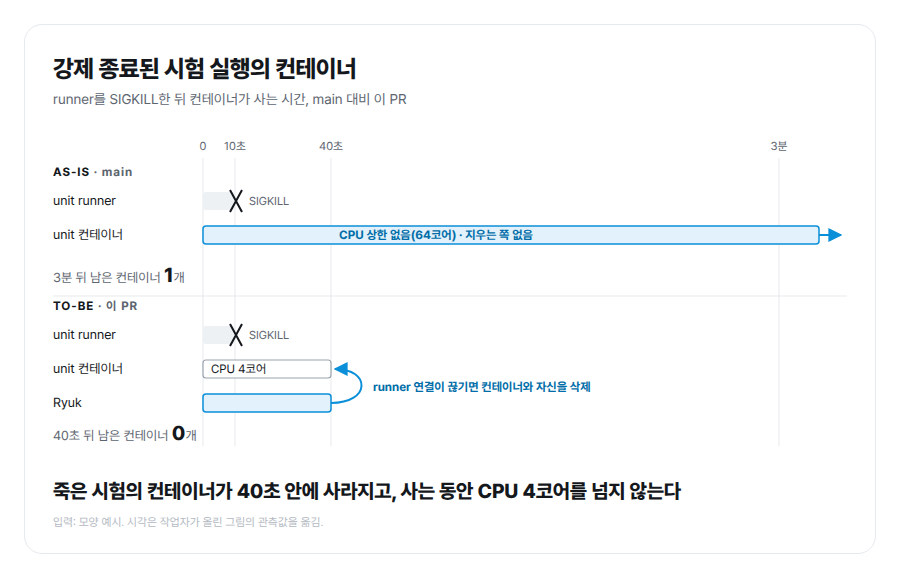
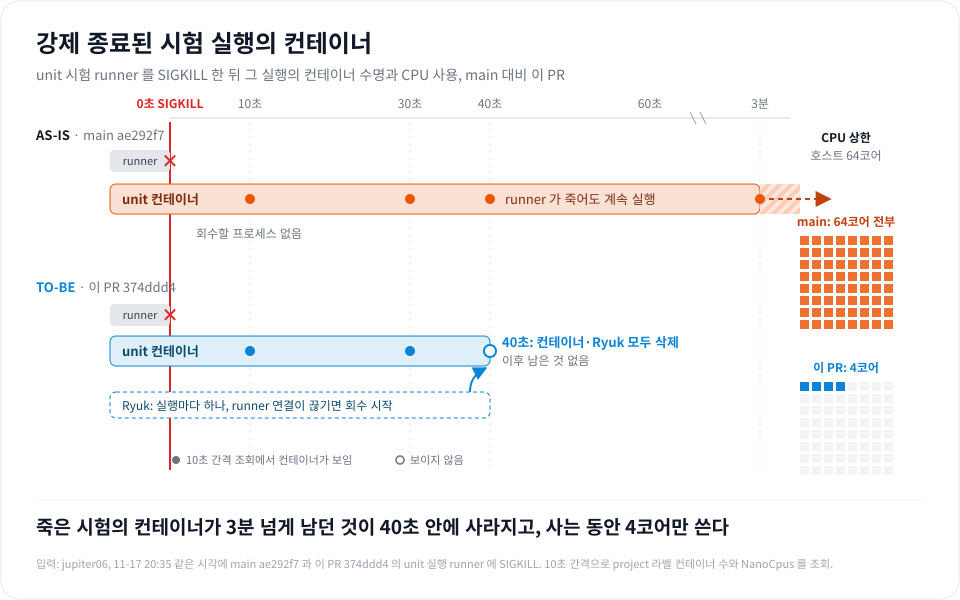
visuals: 컨테이너 정리 예시를 사용자가 더 낫다고 본 시간축·코어 격자 그림으로 바꾸고 자원 양을 그리는 방식을 더한다

diff --git a/skills/visuals/SKILL.md b/skills/visuals/SKILL.md
@@ -2,7 +2,7 @@
 name: visuals
 description: Apply the user's visual preferences to HTML, UI, data charts, diagrams, slides, and other visual materials; read it before making any data chart. Use ztd-charts for data charts and hand-positioned SVG for structural diagrams, with a light theme, readable fonts, and interaction where possible.
 metadata:
-  version: "1.5.0"
+  version: "1.6.0"
 ---
 
 # Visual materials
@@ -67,6 +67,7 @@ Choose the drawing by what the change acts on, and draw that thing:
 | Flow of data, such as which input becomes which output | The input pieces and the outputs as shapes joined by arrows; a dropped path ends in a cut mark where it stops |
 | Relations, such as a reference, a merge, or a split | Nodes and the edges between them, with the new or removed edge in the accent color |
 | Time, such as a lifetime, an order, a timeout, or a retry | One shared time axis with a lane per state and bars for what lives when, the event that ends each bar drawn as an arrow from its cause |
+| An amount of a resource, such as CPU cores, memory, or calls | The amount as a grid of unit cells or a bar to scale per state, filled to what each state uses |
 | Text, such as a document, a rule, or a prompt | The real passage before and after, with the changed spans marked on the text and joined to what they cause |
 
 Each state comes from the same real input, read from an actual run of the base commit and of the PR head, or the actual text of the file before and after. What the change touches is in the accent color, what the change removes stays in place in gray with its path cut, so the two states line up, and unchanged parts stay neutral gray. Each state ends with one line of numbers that measures the difference, such as the count of extracted items. Pick the input that shows the difference most plainly and cut it to the part where the difference lies.
@@ -75,7 +76,7 @@ A performance change uses a `ztd-charts` chart of the measured or proved numbers
 
 Both forms share one card style, the `ztd-charts` light theme card: a title, a one-line subtitle naming what is compared, the body, a bold one-line takeaway at the bottom, one accent color for what changed and neutral gray for the rest, and a small source line naming the input or the measurement. The user's words (2026-11-17), asking for this while the examples were made: "디자인 스타일을 좀 통일해주면 좋겠어", and, told that the card puts a title inside the figure against the rule above: "좋아. 일단 이렇게 하자". So the rule against titles and explanatory sentences inside a figure does not apply to the change visual. For the as-is/to-be drawing, write HTML on `examples/card.css`, which holds the theme tokens, the card frame, and the SVG classes, with the drawing as an inline `<svg class="fig">` between the subtitle and the takeaway, with a `fonts/` directory beside it holding the Pretendard files copied from `~/.local/share/ztd-charts-runtime/node_modules/ztd-charts-cli/fonts`, and render it to PNG with `~/.agents/skills/browser-render/SKILL.md` using `--viewport 900x100 --fullpage`, which keeps the page 900px wide, about the width GitHub shows a body at, and grows its height to the content. Inspect the PNG before posting: Korean text renders in Pretendard, nothing overlaps or is clipped, the difference is visible without zooming, and a reader who skips every label still sees what changed from the shapes and arrows.
 
-The examples in `examples/` are drawn on placeholder data for shape only; a real PR uses real data. `pr1415` (flow: lines without facts cut before they become nodes), `pr1437` (relation: a `refers_to` edge merges two nodes), and `container-cleanup` (time: a container's lifetime after its runner is killed, ended by Ryuk) are as-is/to-be drawings, each as its HTML source and PNG. `pr1460-chart` (keyword search: p50 speedup per path) and `pr1423-chart` (thread count, main against this PR per case) are performance charts, each as its `ztd-charts` spec and PNG.
+The examples in `examples/` show the shape; a real PR draws its own real data. `pr1415` (flow: lines without facts cut before they become nodes), `pr1437` (relation: a `refers_to` edge merges two nodes), are as-is/to-be drawings, each as its HTML source and PNG. `container-cleanup` (time and amount: on one time axis from the SIGKILL, each state's container lifetime bar with the 10-second observations as filled and hollow dots, the Ryuk arrow that ends the container, and a 64-cell core grid filled per state) is an SVG and PNG drawn on the real numbers of its PR; shown it beside the same PR's text-row card, the user said "이게 더 낫다" (2026-11-17). `pr1460-chart` (keyword search: p50 speedup per path) and `pr1423-chart` (thread count, main against this PR per case) are performance charts, each as its `ztd-charts` spec and PNG.
 
 ## Render verification
 
